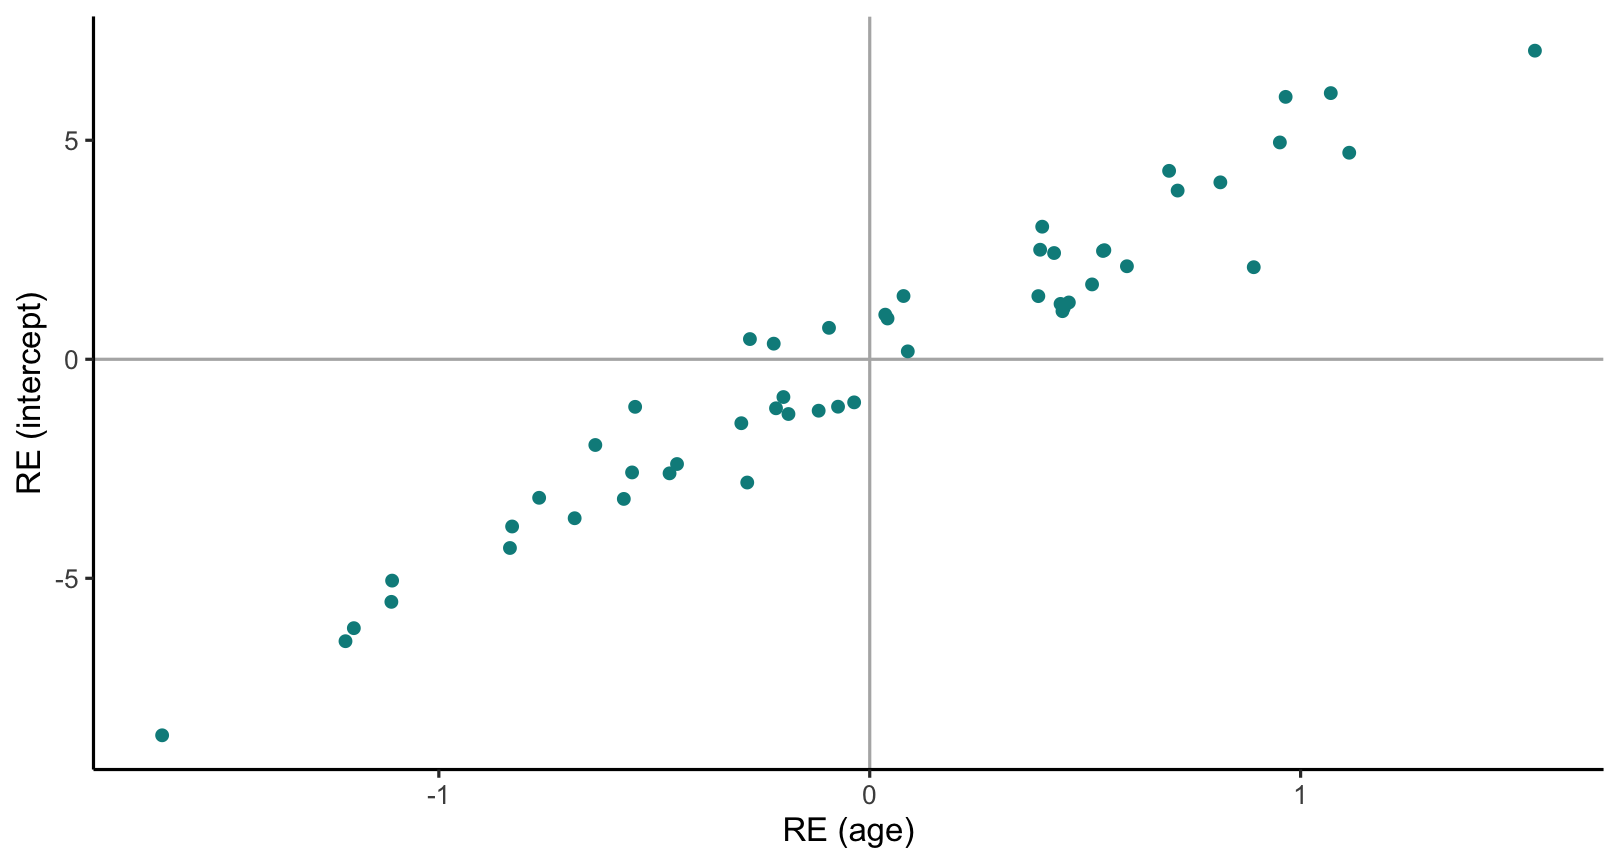
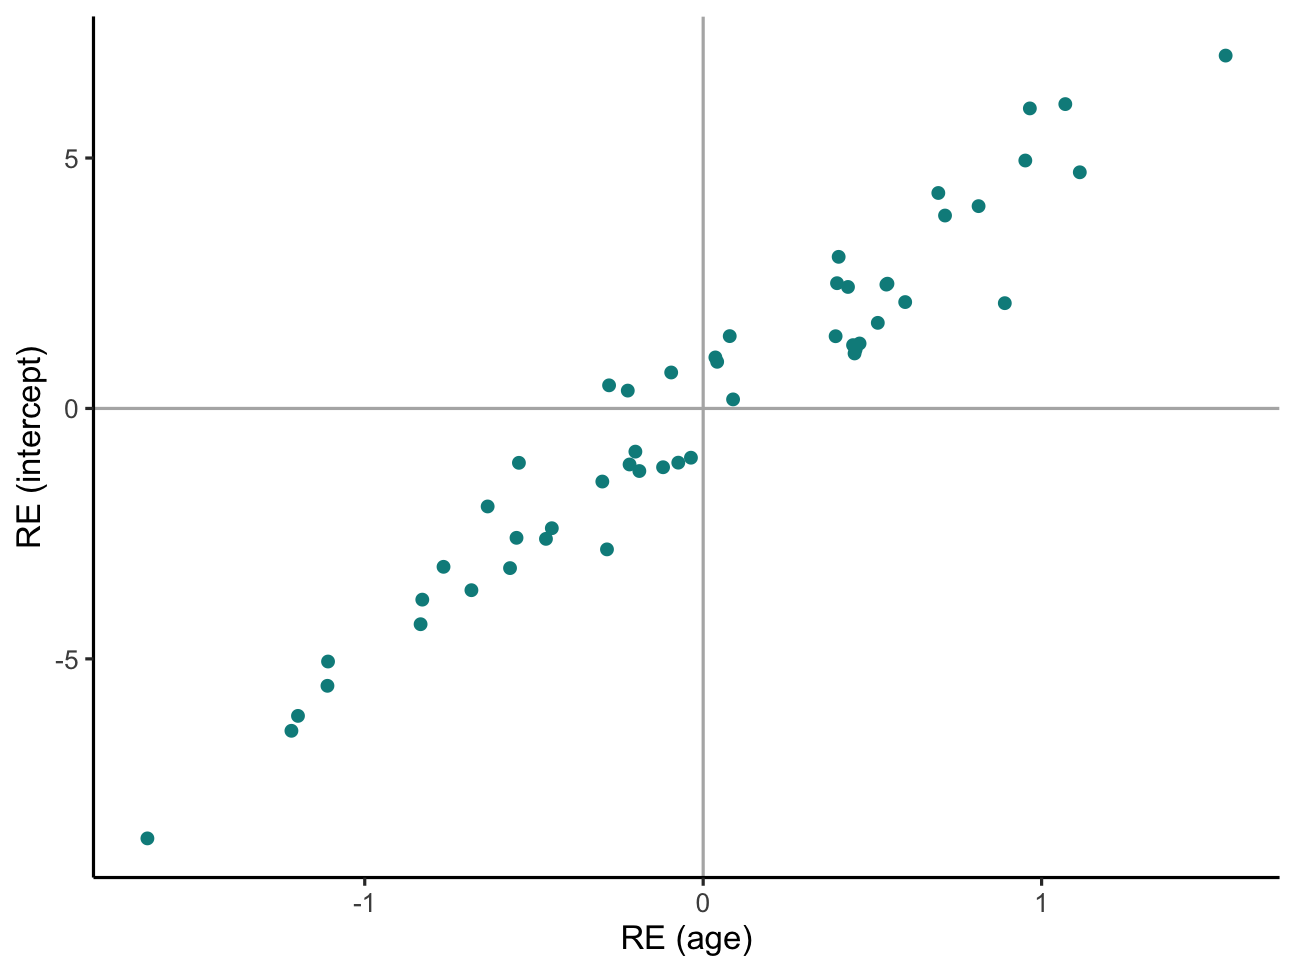
update slides

diff --git a/index.html b/index.html
@@ -878,7 +878,7 @@ broom.mixed::tidy(ri.fit, effects = "ran_vals") %&gt;%
     geom_point(color = "cyan4") +
     geom_errorbar(aes(ymin = estimate - 1.96*std.error, ymax = estimate + 1.96*std.error), 
                   width = 0, color = "cyan4") +
-    labs(x = "State", y = "RE estimate") +
+    labs(x = "State", y = "Random effect") +
     scale_x_discrete(guide = guide_axis(n.dodge = 2)) +
     theme_classic() +
     coord_flip()
@@ -1488,8 +1488,9 @@ data.frame(ranef(rs.fit.bob)) %&gt;%
 class:highlight-last-item
 ### Joint distribution of random effects
 
-&lt;img src="index_files/figure-html/unnamed-chunk-23-1.png" width="70%" /&gt;
-
+.center[
+&lt;img src="index_files/figure-html/unnamed-chunk-23-1.png" width="60%" /&gt;
+]
 ---
 class:highlight-last-item
 ### A model with uncorrelated random effects
@@ -1855,6 +1856,10 @@ class: highlight-last-item
 ---
 class: highlight-last-item
 ### Extensions
+
+- Can include multiple random slopes in a model.
+
+--
 
 - We only focused on models including two levels (units nested within clusters). Random effects model can also accommodate multiple levels of clustering (units nested within clusters that are themselves nested within broader clusters). 
 
